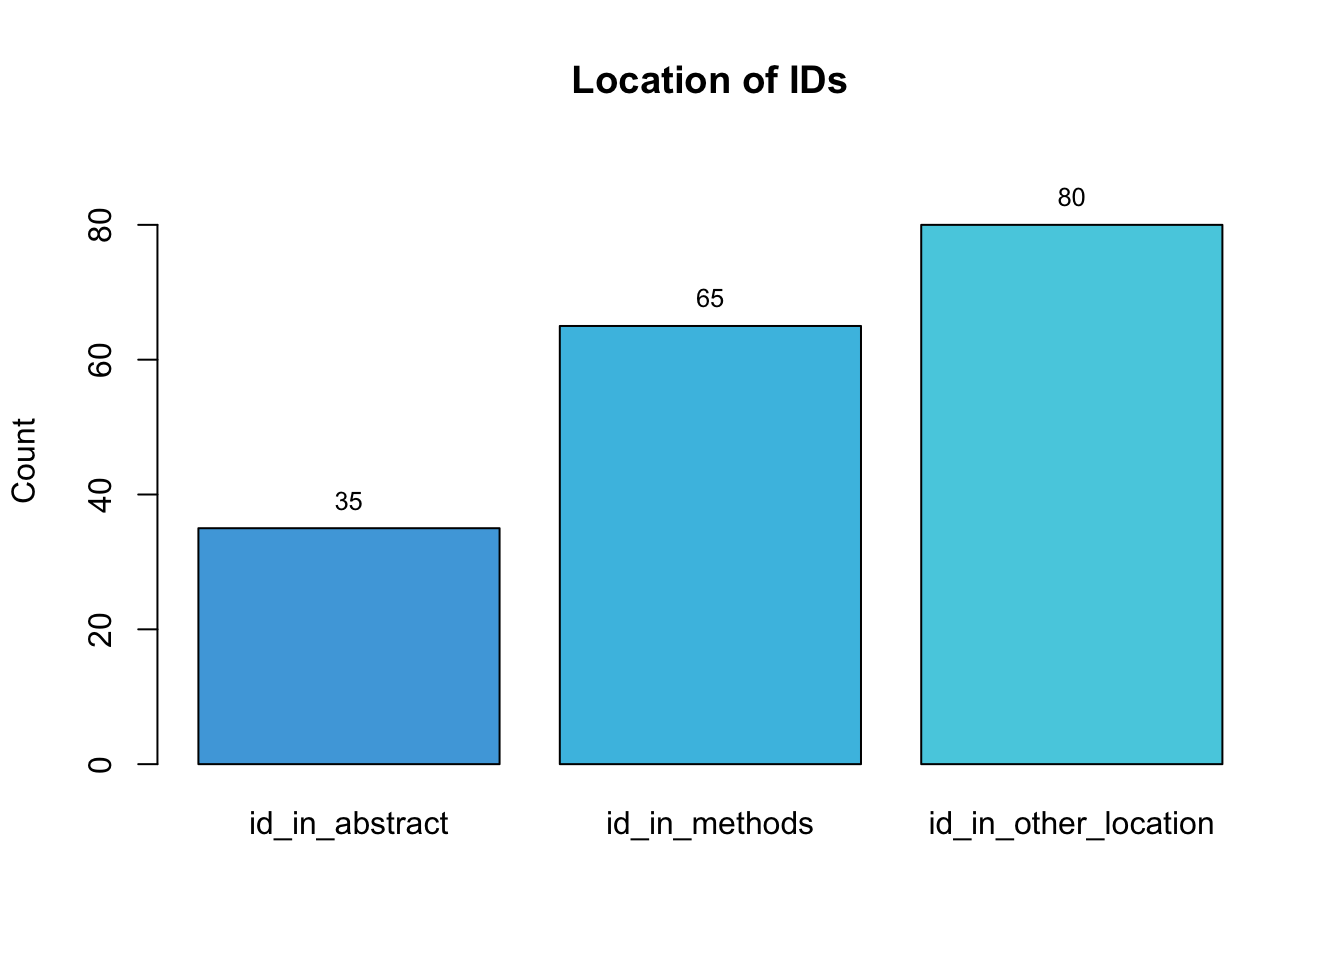
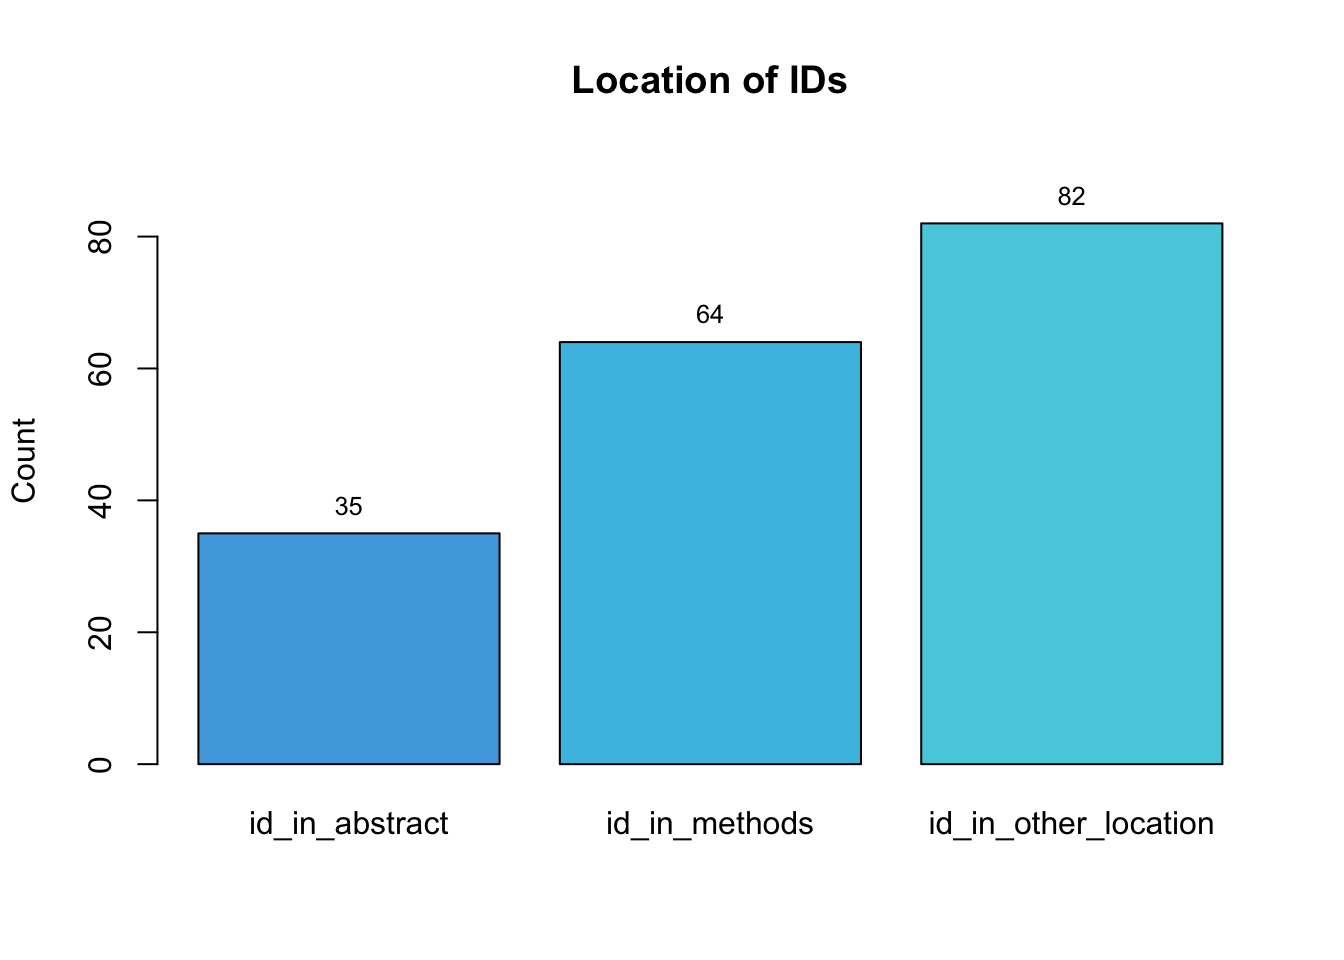
Updated name of tool TRNscreener and the numbers in text, according to changes in the regset.csv file - changed trialidentifier for TRNscreener - updated the csv file to newest version with 199 IDs. - modified text according to this new version.

diff --git a/descriptive-analysis.html b/descriptive-analysis.html
@@ -96,15 +96,15 @@ pre > code.sourceCode > span > a:first-child::before { text-decoration: underlin
 
 <section id="introduction" class="level2">
 <h2 class="anchored" data-anchor-id="introduction">Introduction</h2>
-<p>This document presents the descriptive results from the analysis of 4 different tools (<code>sciscore</code>, <code>trialidentifier</code>, <code>ctregistries</code> and <code>nct</code>). The aim of these tools is to screen papers for one or more registration IDs (protocol, trial registry, etc).</p>
+<p>This document presents the descriptive results from the analysis of 4 different tools (<code>sciscore</code>, <code>TRNscreener</code>, <code>ctregistries</code> and <code>nct</code>). The aim of these tools is to screen papers for one or more registration IDs (protocol, trial registry, etc).</p>
 <section id="data-description" class="level4">
 <h4 class="anchored" data-anchor-id="data-description">Data description</h4>
-<p>This analysis was limited to papers (n = 117) where a hit was found by one or more tools. Overall, 200 IDs were analyzed. These IDs were grouped in a data file named <code>regset.csv</code>, with the following variables/columns:</p>
+<p>This analysis was limited to papers (n = 117) where a hit was found by one or more tools. Overall, 199 IDs were analyzed. These IDs were grouped in a data file named <code>regset.csv</code>, with the following variables/columns:</p>
 <ul>
 <li><p><strong>Identifier</strong>: character. It contains the ID detected. Example: <code>NCT03192410</code>.</p></li>
 <li><p><strong>PMCID</strong>: character. PMC identifier of the paper where the ID was found.</p></li>
 <li><p><strong>sciscore_hit:</strong> boolean. It is <code>TRUE</code> if the tool <strong>sciscore</strong> detected the identifier. Otherwise <code>FALSE</code>.</p></li>
-<li><p><strong>trialidentifier_hit:</strong> boolean. It is <code>TRUE</code> if the tool <strong>trialidentifier</strong> detected the identifier. Otherwise <code>FALSE</code>.</p></li>
+<li><p><strong>trnscreener_hit:</strong> boolean. It is <code>TRUE</code> if the tool <strong>TRNscreener</strong> detected the identifier. Otherwise <code>FALSE</code>.</p></li>
 <li><p><strong>ctregistries_hit:</strong> boolean. It is <code>TRUE</code> if the tool <strong>ctregistries</strong> detected the identifier. Otherwise <code>FALSE</code>.</p></li>
 <li><p><strong>nct_hit</strong>: boolean. It is <code>TRUE</code> if the tool <strong>nct</strong> detected the identifier. Otherwise <code>FALSE</code>.</p></li>
 <li><p><strong>paper_url</strong>: link to the PubMed website where the paper is available.</p></li>
@@ -152,7 +152,7 @@ pre > code.sourceCode > span > a:first-child::before { text-decoration: underlin
 <tbody>
 <tr class="odd">
 <td style="text-align: left;">trn</td>
-<td style="text-align: right;">169</td>
+<td style="text-align: right;">168</td>
 </tr>
 <tr class="even">
 <td style="text-align: left;">false_positive</td>
@@ -186,7 +186,7 @@ pre > code.sourceCode > span > a:first-child::before { text-decoration: underlin
 <tbody>
 <tr class="odd">
 <td style="text-align: left;">ctgov</td>
-<td style="text-align: right;">137</td>
+<td style="text-align: right;">136</td>
 </tr>
 <tr class="even">
 <td style="text-align: left;">umin</td>
@@ -343,7 +343,7 @@ pre > code.sourceCode > span > a:first-child::before { text-decoration: underlin
 <p><img src="descriptive-analysis_files/figure-html/unnamed-chunk-6-1.png" class="img-fluid" width="672"></p>
 </div>
 </div>
-<p><strong>What were the other locations?</strong> - discussion (53 cases), introduction (23 cases), acknowledgements (16 cases ), results (11 cases), etc.</p>
+<p><strong>What were the other locations?</strong> - discussion (53 cases), introduction (23 cases), acknowledgements (16 cases ), results (12 cases), etc.</p>
 <div class="cell">
 <div class="cell-output-display">
 <p><img src="descriptive-analysis_files/figure-html/unnamed-chunk-7-1.png" class="img-fluid" width="672"></p>
@@ -352,7 +352,7 @@ pre > code.sourceCode > span > a:first-child::before { text-decoration: underlin
 </section>
 <section id="note" class="level3">
 <h3 class="anchored" data-anchor-id="note">NOTE:</h3>
-<p>The IDs analyzed could be in <strong>one or more locations</strong> of the paper, that is why there are more cases out of a total of 200 IDs. This is important to remember for a following section that analyzes the location of the ID by tool. Some tools searched for the IDs in a particular section of a paper, but if the ID was also present in another section of the same paper, it was also recorded on the datafile.</p>
+<p>The IDs analyzed could be in <strong>one or more locations</strong> of the paper, that is why there are more cases out of a total of 199 IDs. This is important to remember for a following section that analyzes the location of the ID by tool. Some tools searched for the IDs in a particular section of a paper, but if the ID was also present in another section of the same paper, it was also recorded on the datafile.</p>
 </section>
 </section>
 <section id="were-the-papers-research-articles" class="level2">
@@ -405,7 +405,7 @@ pre > code.sourceCode > span > a:first-child::before { text-decoration: underlin
 <tbody>
 <tr class="odd">
 <td style="text-align: left;">TRUE</td>
-<td style="text-align: right;">159</td>
+<td style="text-align: right;">158</td>
 </tr>
 <tr class="even">
 <td style="text-align: left;">FALSE</td>
@@ -415,7 +415,7 @@ pre > code.sourceCode > span > a:first-child::before { text-decoration: underlin
 </table>
 </div>
 </div>
-<p>Out of 117 papers reviewed, 112 were research articles, and were associated with 159 IDs. The remaining 5 articles in which 41 IDs were found appeared to be either protocol papers, review of findings and an article that did not present a methods section.</p>
+<p>Out of 117 papers reviewed, 112 were research articles, and were associated with 158 IDs. The remaining 5 articles in which 41 IDs were found appeared to be either protocol papers, review of findings and an article that did not present a methods section.</p>
 <p>It is important to note that 33 out of the 41 IDs came from the same non-research article, which conducted a review and cited studies using their ctgov ID (<a href="https://pubmed.ncbi.nlm.nih.gov/35237397/">click here to see article</a>)</p>
 </section>
 <section id="did-the-tools-agreedisagree" class="level2">
@@ -440,13 +440,13 @@ pre > code.sourceCode > span > a:first-child::before { text-decoration: underlin
 </tr>
 <tr class="even">
 <td style="text-align: left;">no</td>
-<td style="text-align: right;">146</td>
+<td style="text-align: right;">145</td>
 </tr>
 </tbody>
 </table>
 </div>
 </div>
-<p>Overall, the tools agreed in 54 cases, and disagreed in 146. Additionally, they only agreed when the ID was a trn:</p>
+<p>Overall, the tools agreed in 54 cases, and disagreed in 145. Additionally, they only agreed when the ID was a trn:</p>
 <div class="cell">
 <div class="sourceCode cell-code" id="cb8"><pre class="sourceCode r code-with-copy"><code class="sourceCode r"><span id="cb8-1"><a href="#cb8-1" aria-hidden="true" tabindex="-1"></a>data <span class="sc">%&gt;%</span></span>
 <span id="cb8-2"><a href="#cb8-2" aria-hidden="true" tabindex="-1"></a>  <span class="fu">count</span>(tools_agree, id_type_group) <span class="sc">%&gt;%</span></span>
@@ -480,7 +480,7 @@ pre > code.sourceCode > span > a:first-child::before { text-decoration: underlin
 <tr class="even">
 <td style="text-align: left;">no</td>
 <td style="text-align: left;">trn</td>
-<td style="text-align: right;">115</td>
+<td style="text-align: right;">114</td>
 </tr>
 </tbody>
 </table>
@@ -572,7 +572,7 @@ pre > code.sourceCode > span > a:first-child::before { text-decoration: underlin
 <tbody>
 <tr class="odd">
 <td style="text-align: left;">ctgov</td>
-<td style="text-align: right;">63</td>
+<td style="text-align: right;">61</td>
 </tr>
 <tr class="even">
 <td style="text-align: left;">irct</td>
@@ -660,7 +660,7 @@ pre > code.sourceCode > span > a:first-child::before { text-decoration: underlin
 <tr class="even">
 <td style="text-align: left;">ctgov</td>
 <td style="text-align: left;">FALSE</td>
-<td style="text-align: right;">11</td>
+<td style="text-align: right;">9</td>
 </tr>
 <tr class="odd">
 <td style="text-align: left;">irct</td>
@@ -748,13 +748,13 @@ pre > code.sourceCode > span > a:first-child::before { text-decoration: underlin
 </div>
 <p>Out of 63 ctgov IDs present in the methods section, <code>Sciscore</code> found only 52 ctgov IDs in the method section.</p>
 </section>
-<section id="tool-2-trialidentifier" class="level3">
-<h3 class="anchored" data-anchor-id="tool-2-trialidentifier">Tool 2: trialidentifier</h3>
+<section id="tool-2-trnscreener" class="level3">
+<h3 class="anchored" data-anchor-id="tool-2-trnscreener">Tool 2: TRNscreener</h3>
 <div class="cell">
-<div class="sourceCode cell-code" id="cb14"><pre class="sourceCode r code-with-copy"><code class="sourceCode r"><span id="cb14-1"><a href="#cb14-1" aria-hidden="true" tabindex="-1"></a><span class="co">#subset of trialidentifier_hit = TRUE</span></span>
-<span id="cb14-2"><a href="#cb14-2" aria-hidden="true" tabindex="-1"></a>trialidentifier <span class="ot">&lt;-</span> <span class="fu">subset</span>(data, data<span class="sc">$</span>trialidentifier_hit <span class="sc">%in%</span> <span class="fu">c</span>(<span class="st">"TRUE"</span>))</span>
+<div class="sourceCode cell-code" id="cb14"><pre class="sourceCode r code-with-copy"><code class="sourceCode r"><span id="cb14-1"><a href="#cb14-1" aria-hidden="true" tabindex="-1"></a><span class="co">#subset of trnscreener_hit = TRUE</span></span>
+<span id="cb14-2"><a href="#cb14-2" aria-hidden="true" tabindex="-1"></a>trnscreener_hit <span class="ot">&lt;-</span> <span class="fu">subset</span>(data, data<span class="sc">$</span>trnscreener_hit <span class="sc">%in%</span> <span class="fu">c</span>(<span class="st">"TRUE"</span>))</span>
 <span id="cb14-3"><a href="#cb14-3" aria-hidden="true" tabindex="-1"></a></span>
-<span id="cb14-4"><a href="#cb14-4" aria-hidden="true" tabindex="-1"></a>trialidentifier <span class="sc">%&gt;%</span></span>
+<span id="cb14-4"><a href="#cb14-4" aria-hidden="true" tabindex="-1"></a>trnscreener_hit <span class="sc">%&gt;%</span></span>
 <span id="cb14-5"><a href="#cb14-5" aria-hidden="true" tabindex="-1"></a>  <span class="fu">count</span>(id_type_group, id_type) <span class="sc">%&gt;%</span></span>
 <span id="cb14-6"><a href="#cb14-6" aria-hidden="true" tabindex="-1"></a>  <span class="fu">kable</span>()</span></code><button title="Copy to Clipboard" class="code-copy-button"><i class="bi"></i></button></pre></div>
 <div class="cell-output-display">
@@ -781,8 +781,8 @@ pre > code.sourceCode > span > a:first-child::before { text-decoration: underlin
 </table>
 </div>
 </div>
-<p><code>trialidentifier</code> identified 139 trial registry number IDs, 136 from ctgov and 3 from isrctn.</p>
-<p>The IDs were present in more than 2 locations on the paper: abstract (35 cases), methods (65) and other location (80):</p>
+<p><code>TRNscreener</code> identified 139 trial registry number IDs, 136 from ctgov and 3 from isrctn.</p>
+<p>The IDs were present in more than 2 locations on the paper: abstract (35 cases), methods (64) and other location (82):</p>
 <div class="cell">
 <div class="cell-output-display">
 <p><img src="descriptive-analysis_files/figure-html/unnamed-chunk-17-1.png" class="img-fluid" width="672"></p>
@@ -1005,7 +1005,7 @@ pre > code.sourceCode > span > a:first-child::before { text-decoration: underlin
 </table>
 </div>
 </div>
-<p>Finally, the IDs were present in more than 2 locations on the paper: abstract (43 cases), methods (91), other location (112):</p>
+<p>Finally, the IDs were present in more than 2 locations on the paper: abstract (43 cases), methods (91), other location (113):</p>
 <div class="cell">
 <div class="cell-output-display">
 <p><img src="descriptive-analysis_files/figure-html/unnamed-chunk-21-1.png" class="img-fluid" width="672"></p>
@@ -1035,14 +1035,14 @@ pre > code.sourceCode > span > a:first-child::before { text-decoration: underlin
 <tr class="odd">
 <td style="text-align: left;">trn</td>
 <td style="text-align: left;">ctgov</td>
-<td style="text-align: right;">137</td>
+<td style="text-align: right;">136</td>
 </tr>
 </tbody>
 </table>
 </div>
 </div>
-<p><code>nct</code> identified 137 trial registry number IDs, all from ctgov.</p>
-<p>The IDs were present in more than 2 locations on the paper: abstract (34 cases), methods (63), other location (80):</p>
+<p><code>nct</code> identified 136 trial registry number IDs, all from ctgov.</p>
+<p>The IDs were present in more than 2 locations on the paper: abstract (34 cases), methods (61), other location (82):</p>
 <div class="cell">
 <div class="cell-output-display">
 <p><img src="descriptive-analysis_files/figure-html/unnamed-chunk-23-1.png" class="img-fluid" width="672"></p>
@@ -1054,7 +1054,7 @@ pre > code.sourceCode > span > a:first-child::before { text-decoration: underlin
 <div class="cell">
 <div class="sourceCode cell-code" id="cb20"><pre class="sourceCode r code-with-copy"><code class="sourceCode r"><span id="cb20-1"><a href="#cb20-1" aria-hidden="true" tabindex="-1"></a>data <span class="sc">%&gt;%</span></span>
 <span id="cb20-2"><a href="#cb20-2" aria-hidden="true" tabindex="-1"></a>  <span class="fu">filter</span>(id_type_group <span class="sc">==</span> <span class="st">"trn"</span>) <span class="sc">%&gt;%</span> </span>
-<span id="cb20-3"><a href="#cb20-3" aria-hidden="true" tabindex="-1"></a>  <span class="fu">count</span>(ctregistries_hit, sciscore_hit, trialidentifier_hit, nct_hit) <span class="sc">%&gt;%</span></span>
+<span id="cb20-3"><a href="#cb20-3" aria-hidden="true" tabindex="-1"></a>  <span class="fu">count</span>(ctregistries_hit, sciscore_hit, trnscreener_hit, nct_hit) <span class="sc">%&gt;%</span></span>
 <span id="cb20-4"><a href="#cb20-4" aria-hidden="true" tabindex="-1"></a>  <span class="fu">kable</span>()</span></code><button title="Copy to Clipboard" class="code-copy-button"><i class="bi"></i></button></pre></div>
 <div class="cell-output-display">
 <table class="table table-sm table-striped small">
@@ -1062,7 +1062,7 @@ pre > code.sourceCode > span > a:first-child::before { text-decoration: underlin
 <tr class="header">
 <th style="text-align: left;">ctregistries_hit</th>
 <th style="text-align: left;">sciscore_hit</th>
-<th style="text-align: left;">trialidentifier_hit</th>
+<th style="text-align: left;">trnscreener_hit</th>
 <th style="text-align: left;">nct_hit</th>
 <th style="text-align: right;">n</th>
 </tr>
@@ -1073,7 +1073,7 @@ pre > code.sourceCode > span > a:first-child::before { text-decoration: underlin
 <td style="text-align: left;">FALSE</td>
 <td style="text-align: left;">TRUE</td>
 <td style="text-align: left;">TRUE</td>
-<td style="text-align: right;">3</td>
+<td style="text-align: right;">2</td>
 </tr>
 <tr class="even">
 <td style="text-align: left;">TRUE</td>
@@ -1085,32 +1085,25 @@ pre > code.sourceCode > span > a:first-child::before { text-decoration: underlin
 <tr class="odd">
 <td style="text-align: left;">TRUE</td>
 <td style="text-align: left;">FALSE</td>
-<td style="text-align: left;">FALSE</td>
-<td style="text-align: left;">TRUE</td>
-<td style="text-align: right;">1</td>
-</tr>
-<tr class="even">
-<td style="text-align: left;">TRUE</td>
-<td style="text-align: left;">FALSE</td>
 <td style="text-align: left;">TRUE</td>
 <td style="text-align: left;">FALSE</td>
 <td style="text-align: right;">3</td>
 </tr>
-<tr class="odd">
+<tr class="even">
 <td style="text-align: left;">TRUE</td>
 <td style="text-align: left;">FALSE</td>
 <td style="text-align: left;">TRUE</td>
 <td style="text-align: left;">TRUE</td>
-<td style="text-align: right;">79</td>
+<td style="text-align: right;">80</td>
 </tr>
-<tr class="even">
+<tr class="odd">
 <td style="text-align: left;">TRUE</td>
 <td style="text-align: left;">TRUE</td>
 <td style="text-align: left;">FALSE</td>
 <td style="text-align: left;">FALSE</td>
 <td style="text-align: right;">1</td>
 </tr>
-<tr class="odd">
+<tr class="even">
 <td style="text-align: left;">TRUE</td>
 <td style="text-align: left;">TRUE</td>
 <td style="text-align: left;">TRUE</td>
@@ -1123,9 +1116,9 @@ pre > code.sourceCode > span > a:first-child::before { text-decoration: underlin
 </div>
 <p>Based on this table, we can see that:</p>
 <ul>
-<li><p><strong>ctregistries</strong> detected 28 trial registration ids that no other tool found, and only missed 3 ids that were detected by both trialidentifier and nct.</p></li>
+<li><p><strong>ctregistries</strong> detected 28 trial registration ids that no other tool found, and only missed 3 ids that were detected by both TRNscreener and nct.</p></li>
 <li><p><strong>sciscore</strong> detected 54 ids that all the other tools also found, and it found only one extra id that was also detected by ctregistries. Overall the tool missed 114 trial registration ids.</p></li>
-<li><p><strong>trialidentifier</strong> seem to agree in the majority of cases with nct, but it found 3 additional ids. Overall the tool missed 30 trial registration ids.</p></li>
+<li><p><strong>TRNscreener</strong> seem to agree in the majority of cases with nct, but it found 3 additional ids. Overall the tool missed 30 trial registration ids.</p></li>
 <li><p><strong>nct</strong> found only one additional ids compared to trial identifier. Overall the tool missed 32 trial registration ids.</p></li>
 </ul>
 </section>
@@ -1195,7 +1188,7 @@ pre > code.sourceCode > span > a:first-child::before { text-decoration: underlin
 </section>
 <section id="trn-with-missing-digits" class="level3">
 <h3 class="anchored" data-anchor-id="trn-with-missing-digits">TRN with missing digits</h3>
-<p>There were two cases of ctgov IDs reported with a missing digit, but the tools <code>trialidentifier</code> and <code>nct</code> were still able to identify them.</p>
+<p>There were two cases of ctgov IDs reported with a missing digit, but the tools <code>TRNscreener</code> and <code>nct</code> were still able to identify them.</p>
 <p><img src="images/Screenshot%202023-12-06%20at%2009.28.29.png" class="img-fluid"></p>
 </section>
 <section id="negative-control-check-summary" class="level3">
